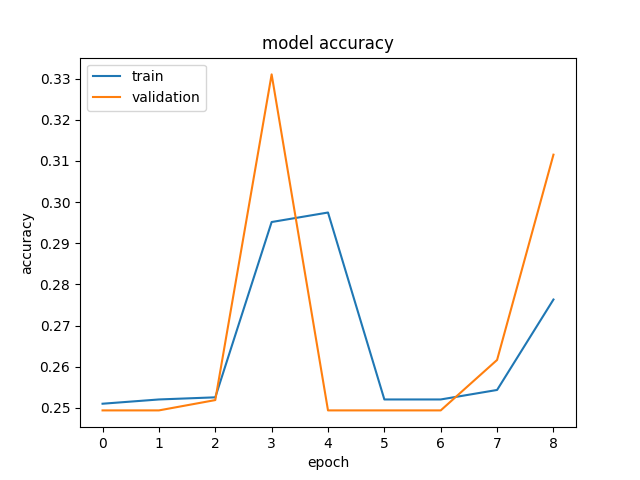
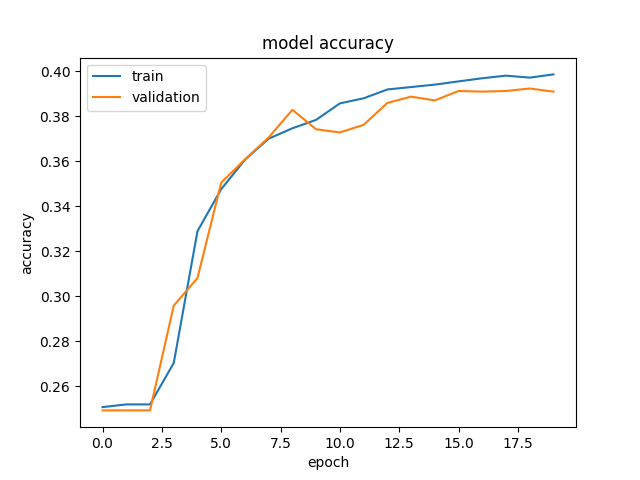
RAN A REALLY GOOD ONE

diff --git a/main.py b/main.py
@@ -108,9 +108,9 @@ def get_parser():
         parents=[tools.argparser])
 
     parser.add_argument('--data', type=str, default='data4students.mat')
-    parser.add_argument('--lr', type=float, default=0.1)
-    parser.add_argument('--lr_scheduler', type=str, default='step_decay')
-    parser.add_argument('--decay_rate', type=float, default=3)
+    parser.add_argument('--lr', type=float, default=0.207)
+    parser.add_argument('--lr_scheduler', type=str, default='inverse_decay')
+    parser.add_argument('--decay_rate', type=float, default=0.13)
     parser.add_argument('--momentum', type=float, default=0.5)
     parser.add_argument('--epochs', type=int, default=1000)
     parser.add_argument('--batch_size', type=int, default=128)

diff --git a/condor/param_scripts/condor_main.py b/condor/param_scripts/condor_main.py
@@ -23,8 +23,8 @@ def main():
 
 
     parser = get_parser()
-    params = parser.parse_args(["--timestamp", str(t), "--lr_scheduler", name, "--decay_rate", str(value)])
-    #params = parser.parse_args(["--timestamp", str(t), "--{}".format(name), str(value)])
+    # params = parser.parse_args(["--timestamp", str(t), "--lr_scheduler", name, "--decay_rate", str(value)])
+    params = parser.parse_args(["--timestamp", str(t), "--{}".format(name), str(value)])
     train_and_report(training_data, validation_data, params)
 
 

diff --git a/model.py b/model.py
@@ -122,7 +122,7 @@ class MomentumRateScheduler(Callback):
         if self.momentum == None:
             self.momentum = float(K.get_value(self.model.optimizer.momentum))
         elif self.momentum < 0.9:
-            self.momentum += 0.0125
+            self.momentum += 0.015
             self.model.optimizer.momentum = self.momentum
             if self.verbose > 0:
                 print('\nEpoch %05d: MomentumRateScheduler increasing momentum '

diff --git a/condor/param_scripts/initial_learning_rate.py b/condor/param_scripts/initial_learning_rate.py
@@ -30,10 +30,10 @@ def submit_condor_job(i, t, name, value):
 
 def main():
     t = time()
-    rand = np.around(0.10 * np.random.random_sample(50) + 0.25, decimals=3)
+    rand = np.around(0.3 * np.random.random_sample(50), decimals=3)
     print(rand)
     for i, value in enumerate(rand):
-        submit_condor_job(i, t, 'lr', value)
+        submit_condor_job(i, t, 'lr_decay', value)
 
 
 if __name__ == "__main__":
